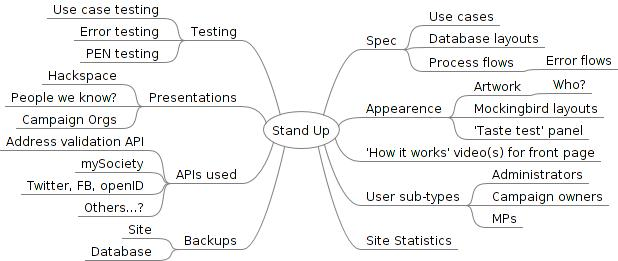
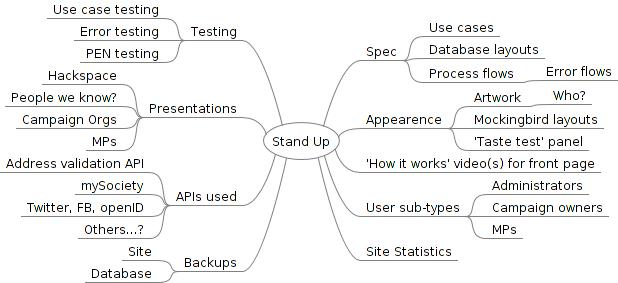
Added MPs as a case for presentations after we have something worth showing

Changed region(s): [[0.0, 0.0, 1.0, 1.0], [0.5534, 0.8582, 0.7379, 0.9808]]

diff --git a/Docs/Stand Up.mm b/Docs/Stand Up.mm
@@ -20,10 +20,11 @@
 <node CREATED="1307891190898" ID="ID_612418246" MODIFIED="1307891207709" TEXT="Mockingbird layouts"/>
 <node CREATED="1307891231519" ID="ID_23518626" MODIFIED="1307891262809" TEXT="&apos;Taste test&apos; panel"/>
 </node>
-<node CREATED="1307891270500" ID="ID_111801809" MODIFIED="1307891313037" POSITION="left" TEXT="Presentations">
+<node CREATED="1307891270500" ID="ID_111801809" MODIFIED="1307903090973" POSITION="left" TEXT="Presentations">
 <node CREATED="1307891318097" ID="ID_289330442" MODIFIED="1307891320620" TEXT="Hackspace"/>
 <node CREATED="1307891322752" ID="ID_1853096043" MODIFIED="1307891343883" TEXT="People we know?"/>
 <node CREATED="1307891345823" ID="ID_403461285" MODIFIED="1307897961845" TEXT="Campaign Orgs"/>
+<node CREATED="1307903092768" ID="ID_288170261" MODIFIED="1307903096291" TEXT="MPs"/>
 </node>
 <node CREATED="1307891360310" ID="ID_662840794" MODIFIED="1307891385951" POSITION="right" TEXT="&apos;How it works&apos; video(s) for front page"/>
 <node CREATED="1307891403211" ID="ID_1486272162" MODIFIED="1307891409878" POSITION="left" TEXT="APIs used">
